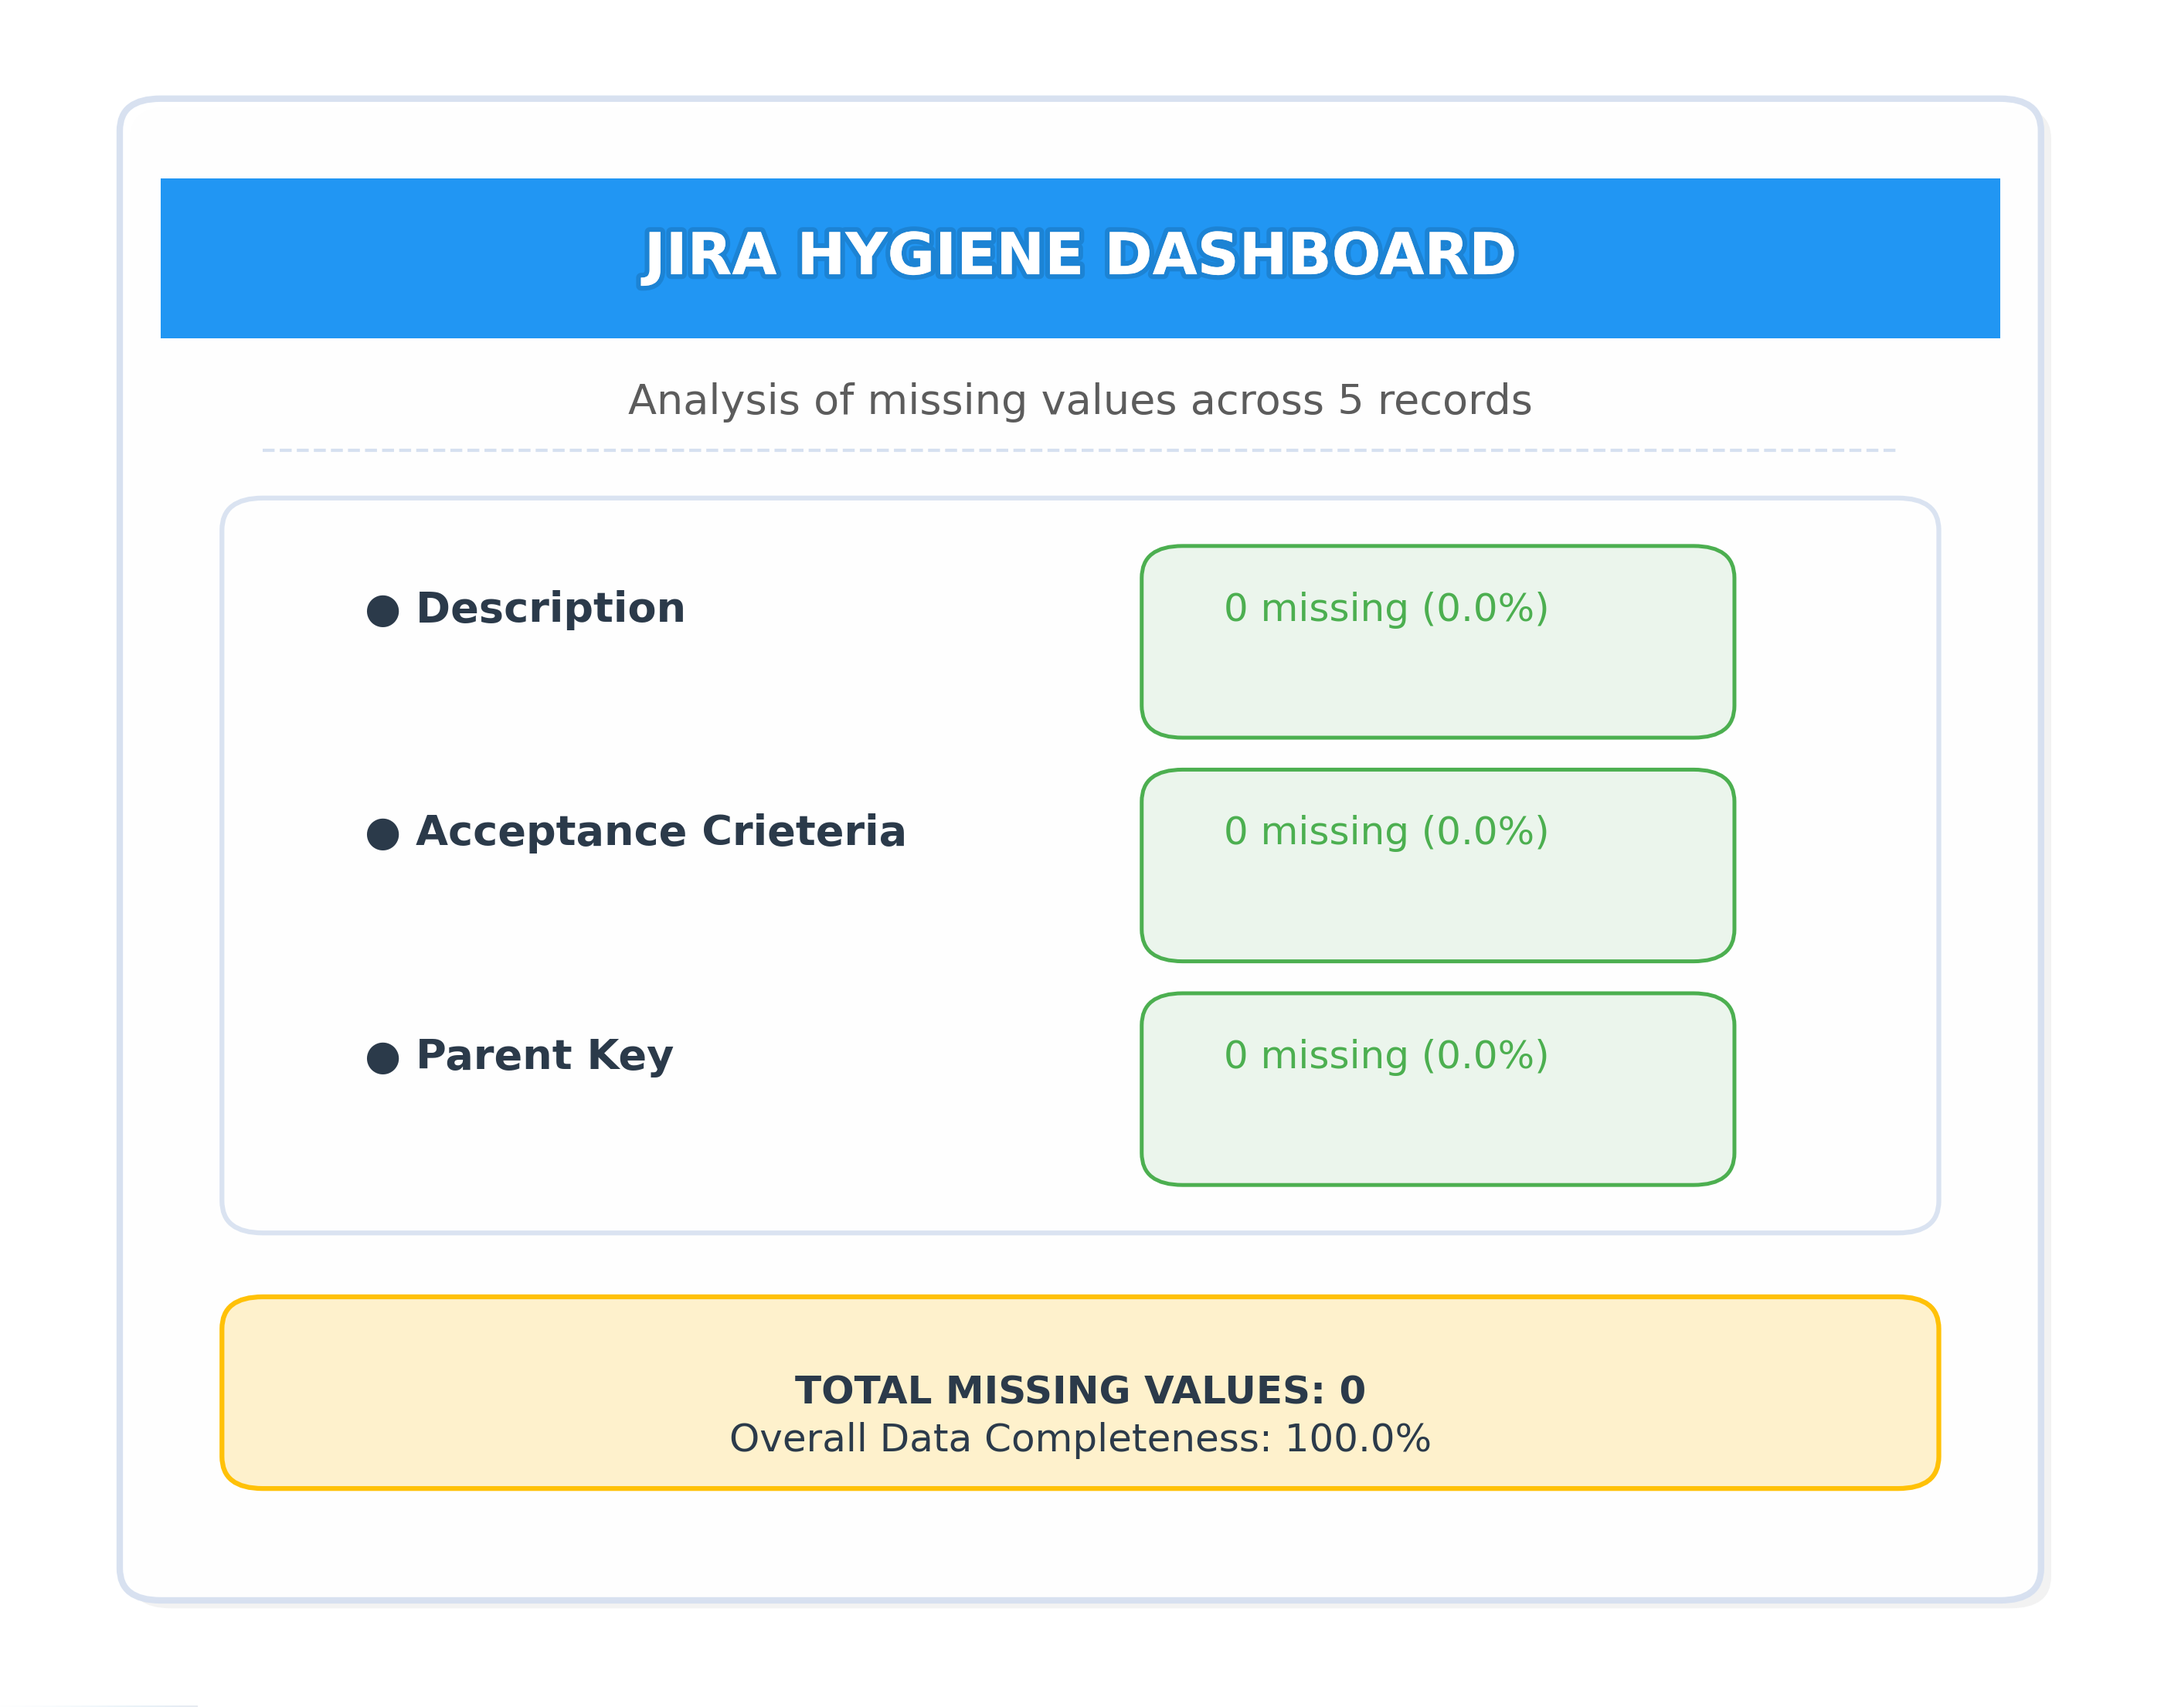
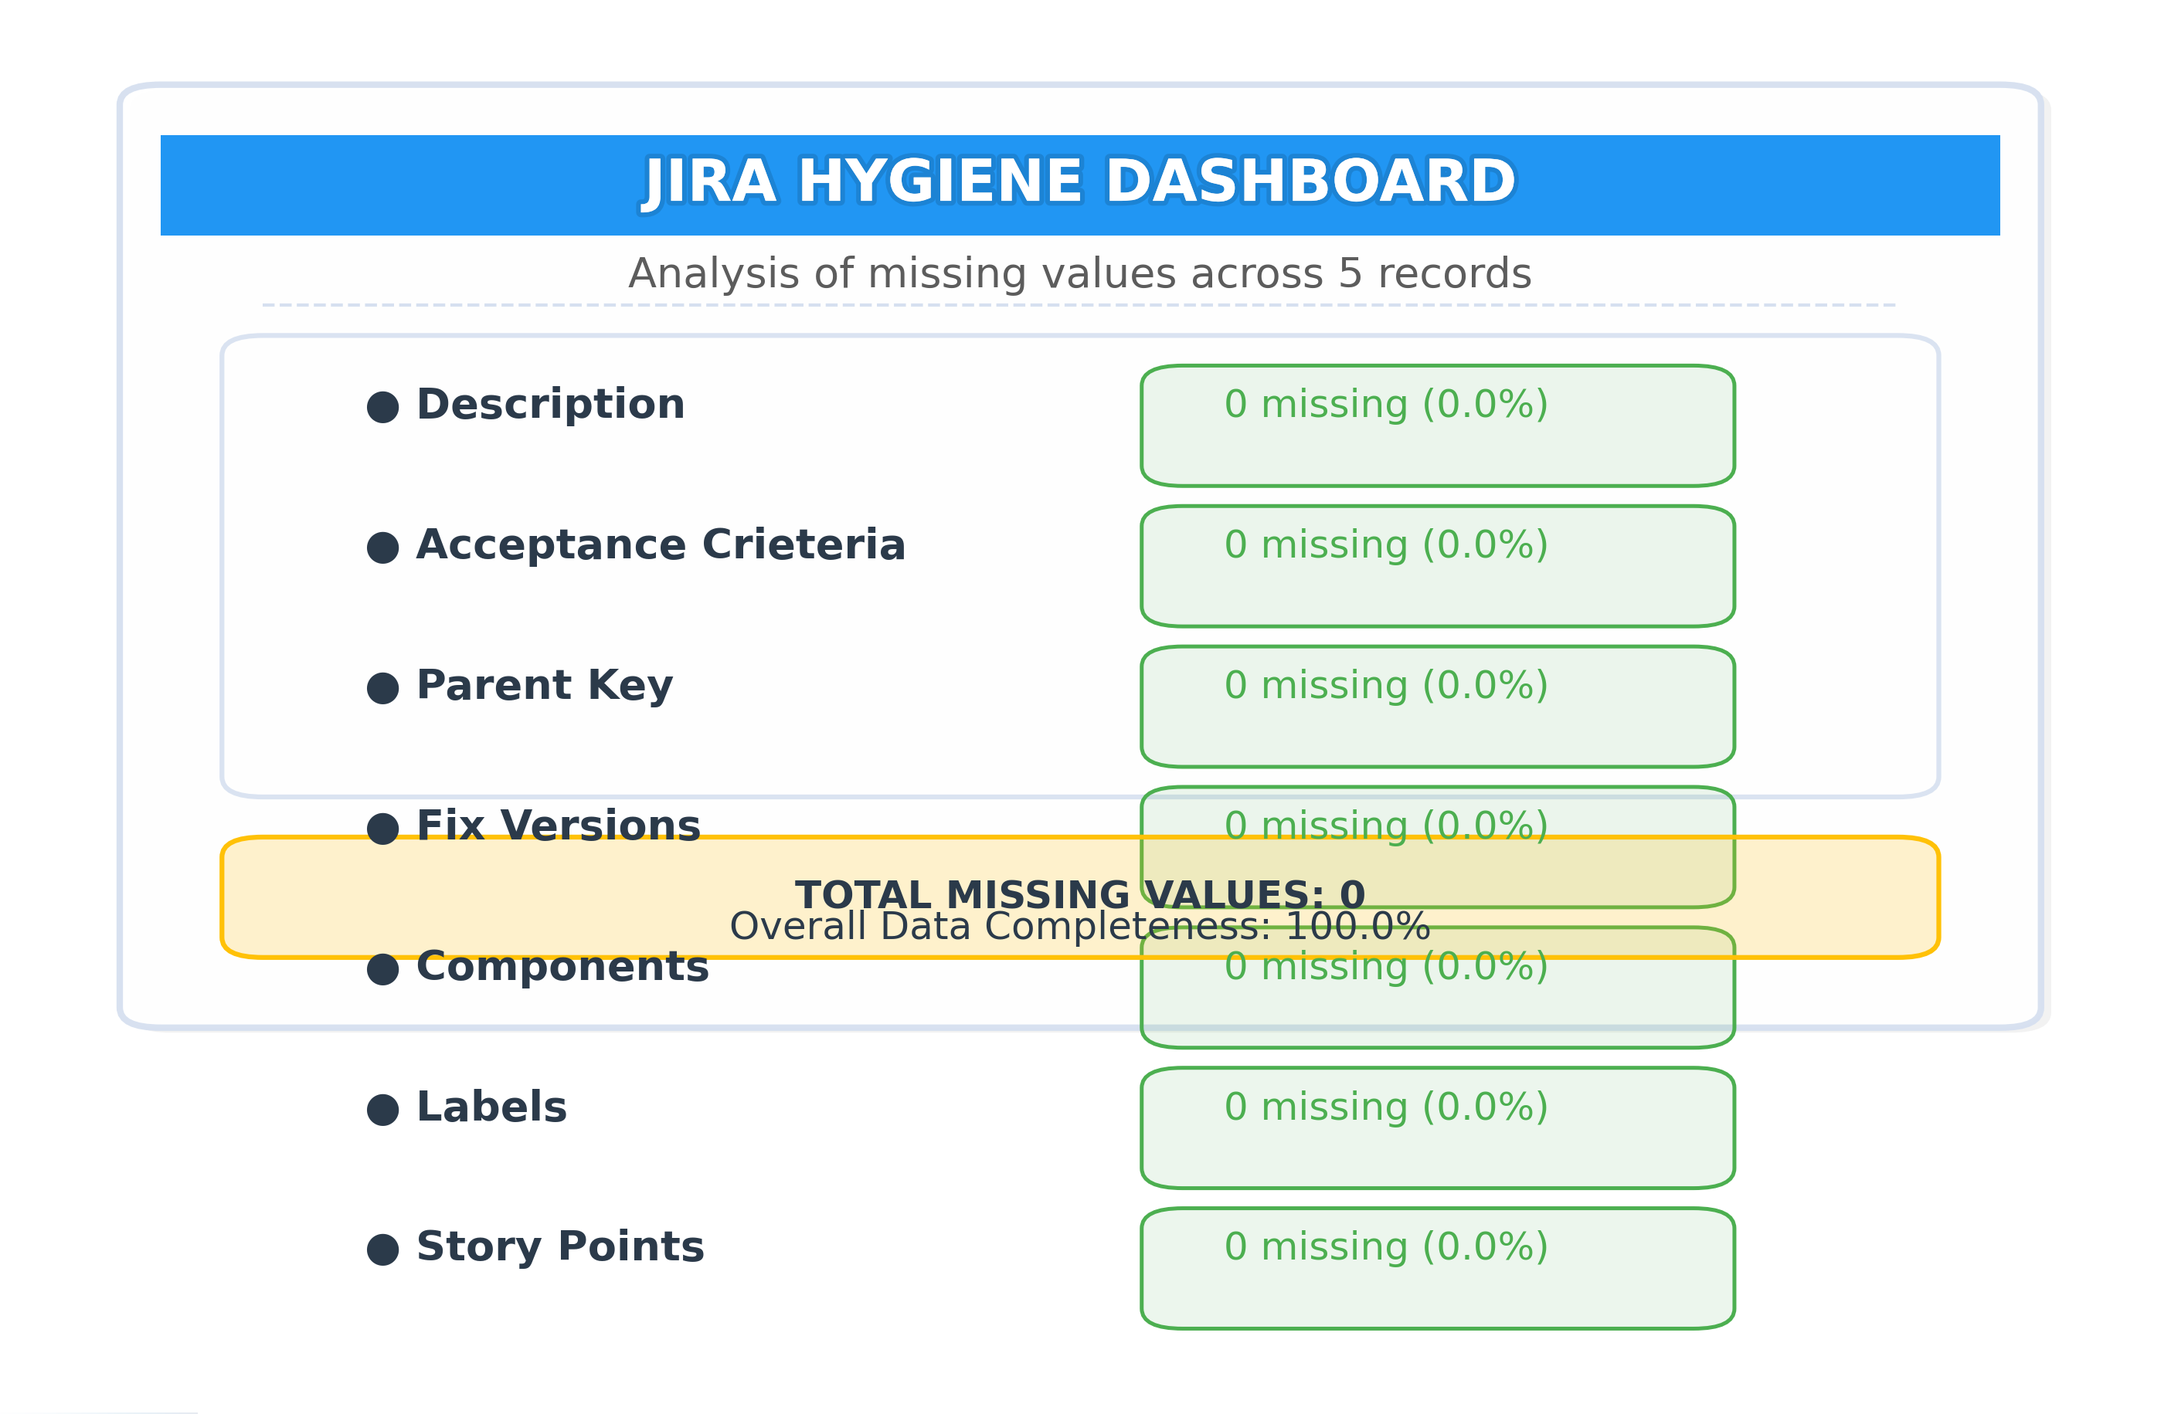
Chainlit started push
Jira hygiene dashboard has to be corrected -- dimensions

diff --git a/entry.py b/entry.py
@@ -12,77 +12,85 @@ from crews import *
 from static_files.hygiene import visualize_missing_data
 
 
+def entrypoint():
+    # loading the environment variables from the .env file
+    load_dotenv()
 
-# loading the environment variables from the .env file
-load_dotenv()
+    # get the user query 
+    Query=input("Enter your L1 level query ( please ask for one thing at a time ): ")
 
-# get the user query 
-Query=input("Enter your L1 level query ( please ask for one thing at a time ): ")
+    # classify the user query as some predefined categories
+    sim_query,sim,idx,previous_needed_or_not=embed_query(Query)
 
-# classify the user query as some predefined categories
-sim_query,sim,idx,previous_needed_or_not=embed_query(Query)
+    write_to_checkpoint_file(str(datetime.now()))
+    write_to_checkpoint_file("user query is : "+str(Query))
+    write_to_checkpoint_file("sim_query is : "+str(sim_query))
+    write_to_checkpoint_file("previous_needed_or_not is : "+str(previous_needed_or_not))
 
-write_to_checkpoint_file(str(datetime.now()))
-write_to_checkpoint_file("user query is : "+str(Query))
-write_to_checkpoint_file("sim_query is : "+str(sim_query))
-write_to_checkpoint_file("previous_needed_or_not is : "+str(previous_needed_or_not))
+    # calling the data getter crew to extract the relevant information from the user query
+    result=parameter_extracter_crew(Query)
 
-# calling the data getter crew to extract the relevant information from the user query
-result=parameter_extracter_crew(Query)
+    # calling the main API function 
+    get_L1_board_data(result["board_name"],previous_needed_or_not,result["sprint_name"],result["person_name"],idx)
 
-# calling the main API function 
-get_L1_board_data(result["board_name"],previous_needed_or_not,result["sprint_name"],result["person_name"],idx)
-
-# now we need to add the columns to the dataframe to add the RTB/CTB columns and also FTE/FTC columns
-df=pd.read_csv("generated_files/current.csv")
-add_rtb_ctb_column(df)
-add_employment_type()
-
-
-# querying the pandas query crew to get the relevant information from the user query
-if(idx!=6): 
-    # excluded JIRA hygiene case
-    pandas_query_crew(Query,idx)
+    # now we need to add the columns to the dataframe to add the RTB/CTB columns and also FTE/FTC columns
+    df=pd.read_csv("generated_files/current.csv")
+    add_rtb_ctb_column(df)
+    add_employment_type()
 
 
-# creating the JIRA hygiene dashboard -- common for all the L1 level queries
+    # querying the pandas query crew to get the relevant information from the user query
+    if(idx!=6): 
+        # excluded JIRA hygiene case
+        pandas_query_crew(Query,idx)
+
+    clear_empty_labels()
+    
+    # creating the JIRA hygiene dashboard -- common for all the L1 level queries
+    visualize_missing_data('generated_files/current.csv', 'outputs/jira_hygiene_dashboard.png')
+
+    restore_empty_labels()
+
+
+    # Now integrating the PTO data according to the query
+    # data we have is result["board_name"],result["sprint_name"] ( can be none ),result["person_name"] ( can be none )
+
+    board_name=result["board_name"]
+
+    # get the current sprint name if not provided in the query
+    if (result["sprint_name"]==None):
+        sprint_name=get_current_sprint()
+    else:
+        sprint_name=result["sprint_name"]
+
+    # get the membership of the board if not provided in the query
+    if (result["person_name"]==None):
+        members=get_membership_of_board(board_name)
+    else:
+        members=[result["person_name"]]
+
+    if(idx!=6):
+        # PTO not required for JIRA hygiene case
+        with open("outputs/output.txt", "a") as f:
+                f.write("\n\n")
+                f.write("=========================================================================")
+                f.write(" Here is the required PTO data ")
+                f.write("=========================================================================")
+                f.write("\n")
+                for i in members:
+                    leaves=total_leave_days(i, sprint_name)
+                    f.write(f"Name: {i} -- Leave days: {leaves} in {sprint_name} \n")
+                f.write("\n\n")
+    else:
+        with open("outputs/output.txt", "w") as file:
+            pass 
+
+
+    analyze_jira_hygiene("generated_files/current.csv")
+
+
+
 visualize_missing_data('generated_files/current.csv', 'outputs/jira_hygiene_dashboard.png')
-
-
-# Now integrating the PTO data according to the query
-# data we have is result["board_name"],result["sprint_name"] ( can be none ),result["person_name"] ( can be none )
-
-board_name=result["board_name"]
-
-# get the current sprint name if not provided in the query
-if (result["sprint_name"]==None):
-    sprint_name=get_current_sprint()
-else:
-    sprint_name=result["sprint_name"]
-
-# get the membership of the board if not provided in the query
-if (result["person_name"]==None):
-    members=get_membership_of_board(result["board_name"])
-else:
-    members=[result["person_name"]]
-
-if(idx!=6):
-    # PTO not required for JIRA hygiene case
-    with open("outputs/output.txt", "a") as f:
-            f.write("\n\n")
-            f.write("=========================================================================")
-            f.write(" Here is the required PTO data ")
-            f.write("=========================================================================")
-            f.write("\n")
-            for i in members:
-                leaves=total_leave_days(i, sprint_name)
-                f.write(f"Name: {i} -- Leave days: {leaves} in {sprint_name} \n")
-            f.write("\n\n")
-else:
-    with open("outputs/output.txt", "w") as file:
-        pass 
-analyze_jira_hygiene("generated_files/current.csv")
-
 
 
 

diff --git a/static_files/utils.py b/static_files/utils.py
@@ -583,17 +583,7 @@ def analyze_jira_hygiene(csv_path):
     
     for res in results:
         report.append(f"{res['Column']:22} | {res['Total Missing']:14} | {res['Percentage Missing']:>18}")
-    
-    # Add recommendations
-    report.extend([
-        "\nRecommendations:",
-        "1. Mandatory Fields: Ensure required fields like 'labels' and 'components' are populated",
-        "2. Data Validation: Implement pre-commit checks for empty values",
-        "3. Automation: Use scripts to flag incomplete entries before sprint planning",
-        "4. Training: Educate teams on proper Jira field maintenance",
-        "5. Workflow Rules: Set up Jira automation to prevent empty required fields"
-    ])
-    
+
     # Save to file
     with open("outputs/output.txt", "a") as f:
         f.write('\n'.join(report))
@@ -612,3 +602,24 @@ def get_membership_of_board(board:str):
     }
 
     return board_membership.get(board.upper(),[])
+
+
+def clear_empty_labels():
+    """
+    Clears rows in the 'labels' column where the value is an empty list ([]).
+    """
+    file_path = "generated_files/current.csv"
+    df = pd.read_csv(file_path)
+    df.loc[df['labels'] == '[]', 'labels'] = ''  # Replace '[]' with an empty string
+    df.to_csv(file_path, index=False)
+    print("Cleared rows with empty labels.")
+
+def restore_empty_labels():
+    """
+    Restores rows in the 'labels' column where the value was cleared (empty string) back to an empty list ([]).
+    """
+    file_path = "generated_files/current.csv"
+    df = pd.read_csv(file_path)
+    df.loc[df['labels'] == '', 'labels'] = '[]'  # Replace empty string with '[]'
+    df.to_csv(file_path, index=False)
+    print("Restored empty labels to [].")

diff --git a/static_files/hygiene.py b/static_files/hygiene.py
@@ -14,7 +14,7 @@ def visualize_missing_data(csv_file_path, output_image_path='outputs/jira_hygien
     total_rows = len(df)
     
     # Count missing values
-    columns_to_check = ['description', 'acceptance_crieteria', 'parent_key']
+    columns_to_check = ['description', 'acceptance_crieteria', 'parent_key','fix_versions','components','labels','story_points']
     missing_counts = {col: df[col].isna().sum() for col in columns_to_check}
     
     # Create figure with beautiful styling

diff --git a/vector_db/db.py b/vector_db/db.py
@@ -163,8 +163,8 @@ with open("outputs/output.txt", "w") as f:
     
     for sprint, utilization in utilization_results.items():
         sprint_points = df[df['sprint'] == sprint]['story_points'].fillna(0).sum()
-        f.write(f"{sprint} story points: {sprint_points}\n")
-        f.write(f"{sprint} backlog status: {utilization}\n")
+        f.write("str(sprint)+" story points:" +str(sprint_points))
+        f.write("str(sprint)+" backlog status:"+str(utilization))
 
 #code end
 

diff --git a/Readme.md b/Readme.md
@@ -8,7 +8,19 @@ The use cases we are dealing with ....
 6) JIRA hygiene for x board                                               -- current sprint 
 
 
-*) PTO -- integration in progress
+*) PTO -- integration done
 
 
+story level Jira Hygiene :
+
+    Parent_key
+    fix-version
+    labels
+    components 
+    description 
+    acceptance crieteria 
+
+    acceptance_crieteria_quality -- To do 
+    application_name -- To do
+    comments -- To do
 
